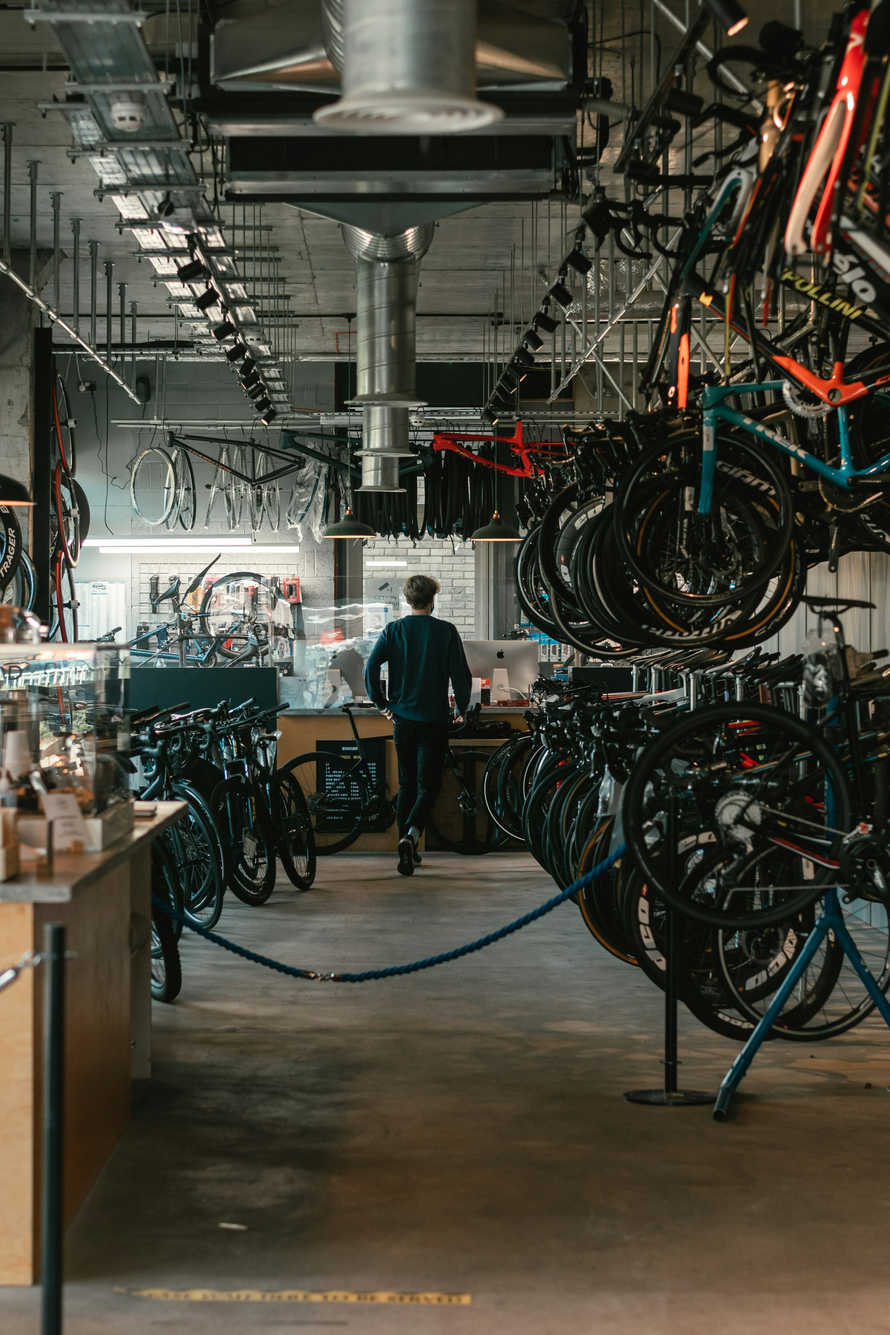
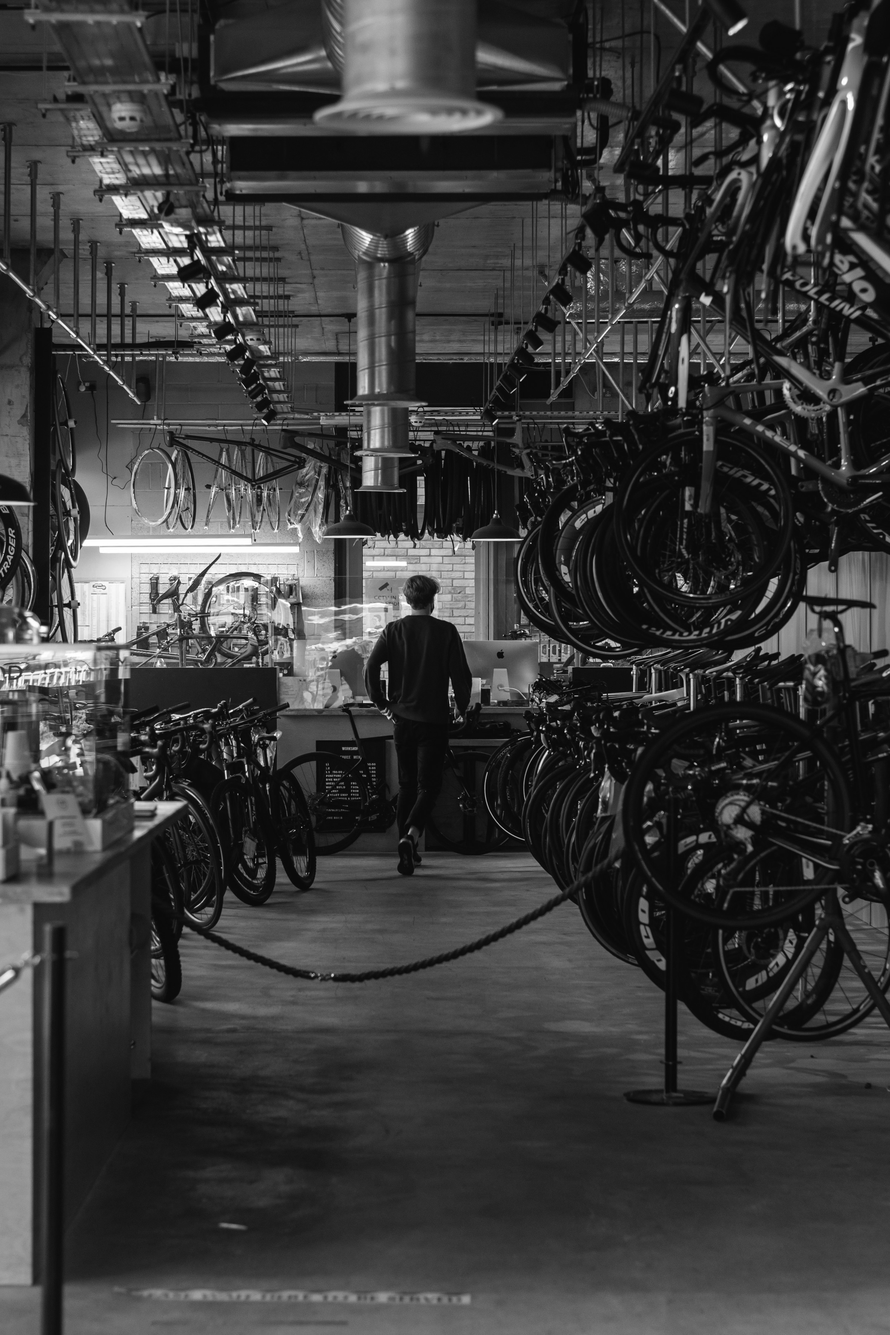
Serve the hero photo greyscale at quality 50
The hero is shown through a CSS grayscale(1) filter at 40% opacity, so
its colour data was downloaded but never visible. Save the source as
greyscale and set quality={50} on the next/image, which the fade hides.

Served WebP drops from ~188 KB to ~115 KB on phones (w=1200) and from
~544 KB to ~276 KB on retina desktops (w=3840). Before/after screenshots
at 1440px and 390px show no visible change (~1% mean pixel difference).

diff --git a/components/Hero.tsx b/components/Hero.tsx
@@ -7,7 +7,8 @@
 //   - Headline leads scroll (~0.10×), drifting *against* the page
 // rAF-throttled, prefers-reduced-motion honoured.
 //
-// PLACEHOLDER PHOTO: sourced from Unsplash. Swap by editing HERO_IMAGE.
+// PLACEHOLDER PHOTO: an Unsplash image, self-hosted at public/hero.jpg.
+// Swap by replacing that file or editing HERO_IMAGE.
 
 import Image from "next/image";
 import { useEffect, useRef } from "react";
@@ -76,6 +77,9 @@ export default function Hero() {
             fill
             priority
             sizes="100vw"
+            // Shown faded and greyscale behind the type, so a lower quality
+            // than next/image's default 75 isn't visible and saves ~35%.
+            quality={50}
             className="object-cover object-[center_30%] opacity-40"
             style={{ filter: "grayscale(1) contrast(1.35) brightness(0.92)" }}
           />
